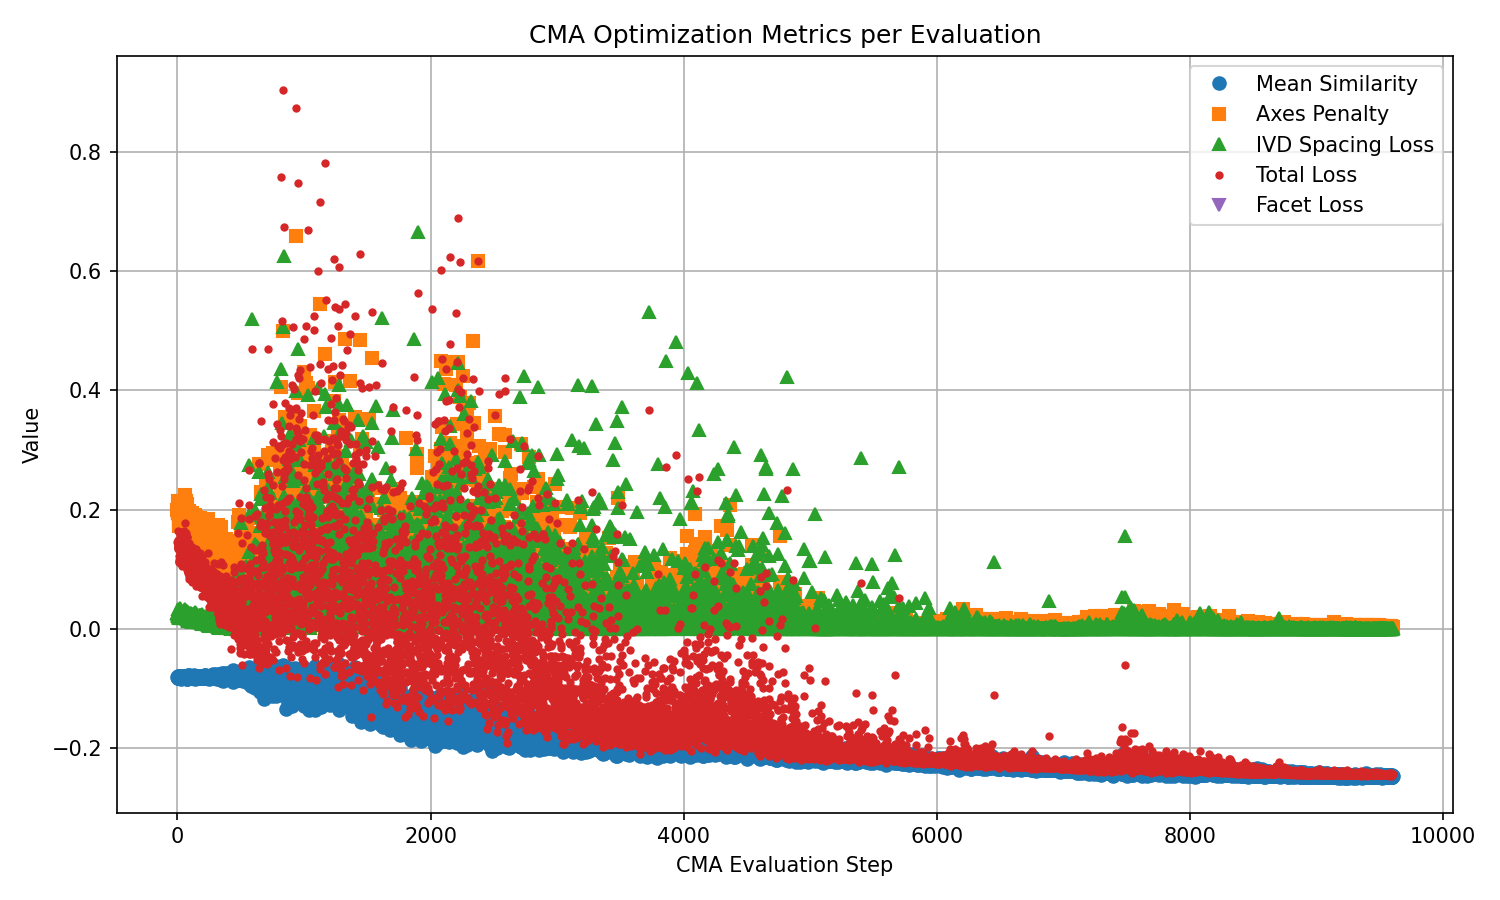
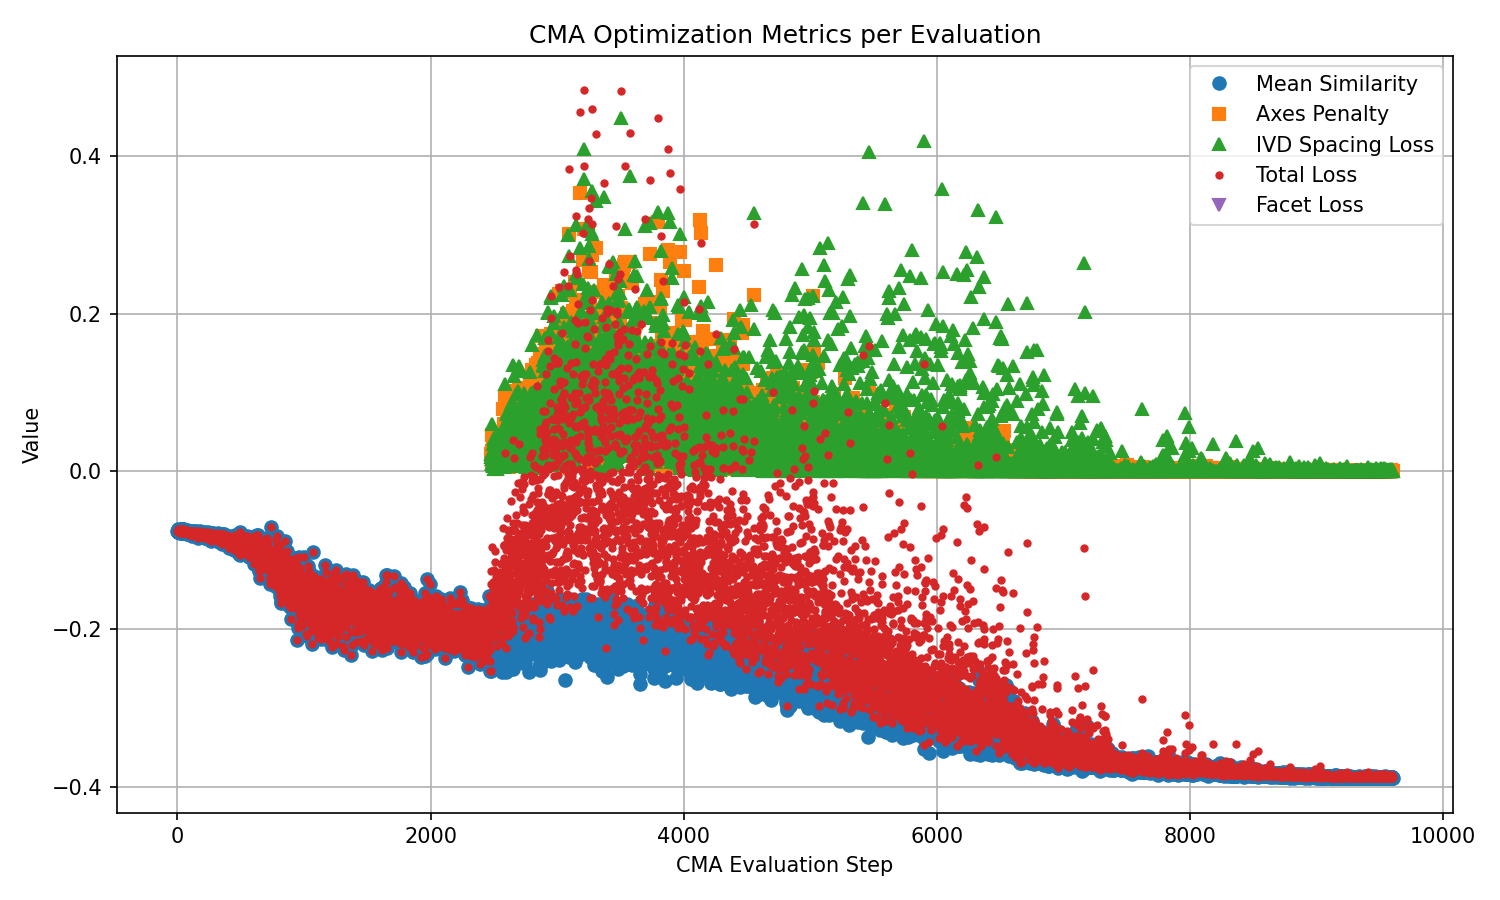
tophat US proprocessing added

diff --git a/groupwise_GPU.py b/groupwise_GPU.py
@@ -15,11 +15,12 @@ from collections import defaultdict
 from enum import Enum
 # imports from my files
 from utils.file_parser import SlicerJsonTagParser, PyNrrdParser
-from utils.helpers import sitk_euler_to_matrix,step_lambda,linear_lambda, sigmoid_ramp, gaussian_lambda, compute_inter_vertebral_displacement_penalty, compute_ivd_collision_loss, compute_facet_collision_loss
+from utils.helpers import sitk_euler_to_matrix,step_lambda,linear_lambda, sigmoid_ramp, gaussian_lambda, compute_inter_vertebral_displacement_penalty, compute_ivd_collision_loss, compute_facet_collision_loss, preprocess_US
 from utils.similarity import IntensitySimilarity
 from extra.centroid import compute_centroid
 from extra.CT_axis import compute_ct_axes
 from extra.IVD_points import compute_adjacent_vertebra_pairings
+import nrrd
 
 
 # EXPERIMENT CONFIGURATION
@@ -181,9 +182,9 @@ def evaluate_group_gpu(flat_params, K, centers, sampled_positions_list,
 
     # CONSTRAINTS
     # lambda_axes = 0.0
-    lambda_axes = 0.01 # 0.01
+    # lambda_axes = 0.01 # 0.01
     # lambda_axes = gaussian_lambda(iteration, max_iter, lambda_peak = 0.005, peak_frac = 0.5, width = 0.3)
-    # lambda_axes  = linear_lambda(iteration, max_iter, lambda_final=0.01,  start_frac=0.25)
+    lambda_axes  = linear_lambda(iteration, max_iter, lambda_final=0.01,  start_frac=0.25)
     # lambda_axes  = step_lambda(iteration, max_iter, lambda_final=0.01,  start_frac=0.25)
 
     axes_margins = {
@@ -200,9 +201,9 @@ def evaluate_group_gpu(flat_params, K, centers, sampled_positions_list,
     )
 
     # lambda_ivd = 0.0
-    lambda_ivd = 0.001 # 0.001 , 0.0005
+    # lambda_ivd = 0.001 # 0.001 , 0.0005
     # lambda_ivd = gaussian_lambda(iteration, max_iter, lambda_peak = 0.0005, peak_frac = 0.5, width = 0.3)
-    # lambda_ivd   = linear_lambda(iteration, max_iter, lambda_final=0.002, start_frac=0.25)
+    lambda_ivd   = linear_lambda(iteration, max_iter, lambda_final=0.002, start_frac=0.25)
     # lambda_ivd   = step_lambda(iteration, max_iter, lambda_final=0.001, start_frac=0.25)
     # print("lambda ivd: ", lambda_ivd)
     ivd_loss, ivd_metrics = compute_ivd_collision_loss(pairings, transforms_list, case_names)
@@ -255,7 +256,20 @@ def run_single_registration(fixed_file, cases_dir, mesh_dir, output_dir, case_na
     
 
     # LOAD DATA
-    fixed_parser = PyNrrdParser(fixed_file)
+    # fixed_parser = PyNrrdParser(fixed_file) # original, non preprocessed
+    
+    print("Preprocessing US image...")
+    preprocess_start = time.time()
+    enhanced_us_data, us_header = preprocess_US(fixed_file, method='tophat', sigma=1.0, size=5)
+    preprocess_time = time.time() - preprocess_start
+    print(f"  Preprocessing completed in {preprocess_time:.2f}s")
+
+    # Save preprocessed US temporarily
+    temp_us_file = os.path.join(output_dir, 'temp_preprocessed_us.nrrd')
+    nrrd.write(temp_us_file, enhanced_us_data, us_header)
+
+    # Use preprocessed US for registration
+    fixed_parser = PyNrrdParser(temp_us_file)
     
     moving_parsers = []
     sampled_positions_list = []
@@ -441,6 +455,10 @@ def run_single_registration(fixed_file, cases_dir, mesh_dir, output_dir, case_na
             'facet_loss': facet_loss_history,
             'ivd_loss': ivd_loss_history
         }
+
+    # DELETE TEMP US FILES
+    if os.path.exists(temp_us_file):
+        os.remove(temp_us_file)
     
     return tre_before, tre_after, runtime, success, per_vertebra_success, metrics_dict
 

diff --git a/utils/helpers.py b/utils/helpers.py
@@ -5,6 +5,31 @@ import numpy as np
 from scipy.fft import fftn, ifftn, fftshift
 from scipy.ndimage import gaussian_filter
 import SimpleITK as sitk
+import nrrd
+from scipy.ndimage import gaussian_filter, white_tophat, grey_dilation
+from skimage import exposure
+import os
+import sys
+
+def preprocess_US(input_path, method='tophat', sigma=1.0, size=5):
+    
+    # read in image, gaussian smooth
+    data, header = nrrd.read(input_path)
+    smoothed_data = gaussian_filter(data, sigma=sigma)
+
+    if method == 'none':
+        return smoothed_data, header
+    
+    normalized = smoothed_data
+    
+    # top-hat transform highlights bright features
+    enhanced = np.zeros_like(normalized)
+    for i in range(data.shape[0]):
+        enhanced[i] = white_tophat(normalized[i], size=size)
+    enhanced = normalized + enhanced
+    enhanced = np.clip(enhanced, 0, 1)  
+    
+    return enhanced, header
 
 
 def compute_facet_collision_loss(pairings, transforms_list, case_names):
